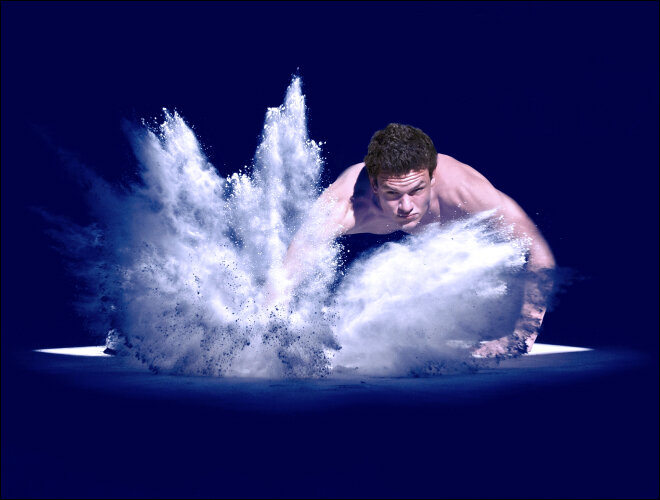
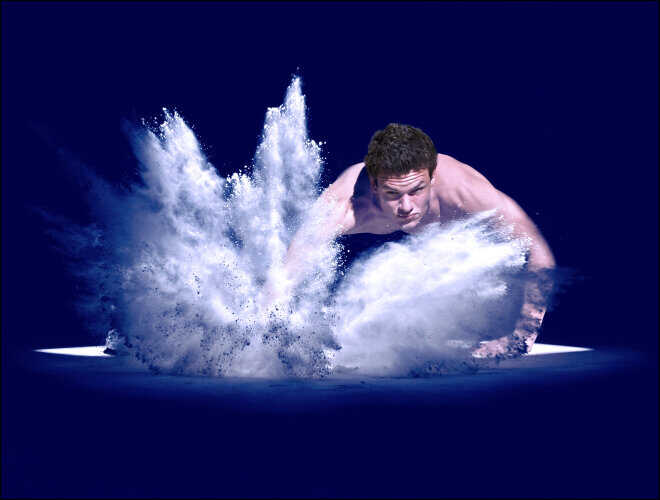
Сжал картинки

diff --git a/main.html b/main.html
@@ -88,7 +88,7 @@
                 </picture>
               </div>
               <div class="gym__video">
-                <video controls="" poster="img/video.png">
+                <video controls="" poster="img/video.jpg">
                   Your browser does not support the video tag.
                 </video>
               </div>
@@ -621,14 +621,14 @@
             <ul class="slider__cards reviews__cards">
               <li class="reviews__card">
                 <h3 class="reviews__name">Анна Орлова</h3>
-                <img src="img/reviews-photo1.png" alt="Фото" class="reviews__photo">
+                <img src="img/reviews-photo1.jpg" alt="Фото" class="reviews__photo">
                 <p class="reviews__text">
                   «Хожу в SuperClub уже »
                 </p>
               </li>
               <li class="reviews__card">
                 <h3 class="reviews__name">Анна Орлова</h3>
-                <img src="img/reviews-photo1.png" alt="Фото" class="reviews__photo">
+                <img src="img/reviews-photo1.jpg" alt="Фото" class="reviews__photo">
                 <p class="reviews__text">
                   «Хожу в SuperClub уже больше года. Нравится, что в клубе
                   всегда чисто, тренажеры обновляют, персонал дружелюбный. Зал
@@ -637,7 +637,7 @@
               </li>
               <li class="reviews__card">
                 <h3 class="reviews__name">Анна Орлова</h3>
-                <img src="img/reviews-photo1.png" alt="Фото" class="reviews__photo">
+                <img src="img/reviews-photo1.jpg" alt="Фото" class="reviews__photo">
                 <p class="reviews__text">
                   «Хожу в SuperClub уже больше года. Нравится, что в клубе
                   всегда чисто, тренажеры обновляют, персонал дружелюбный. Зал
